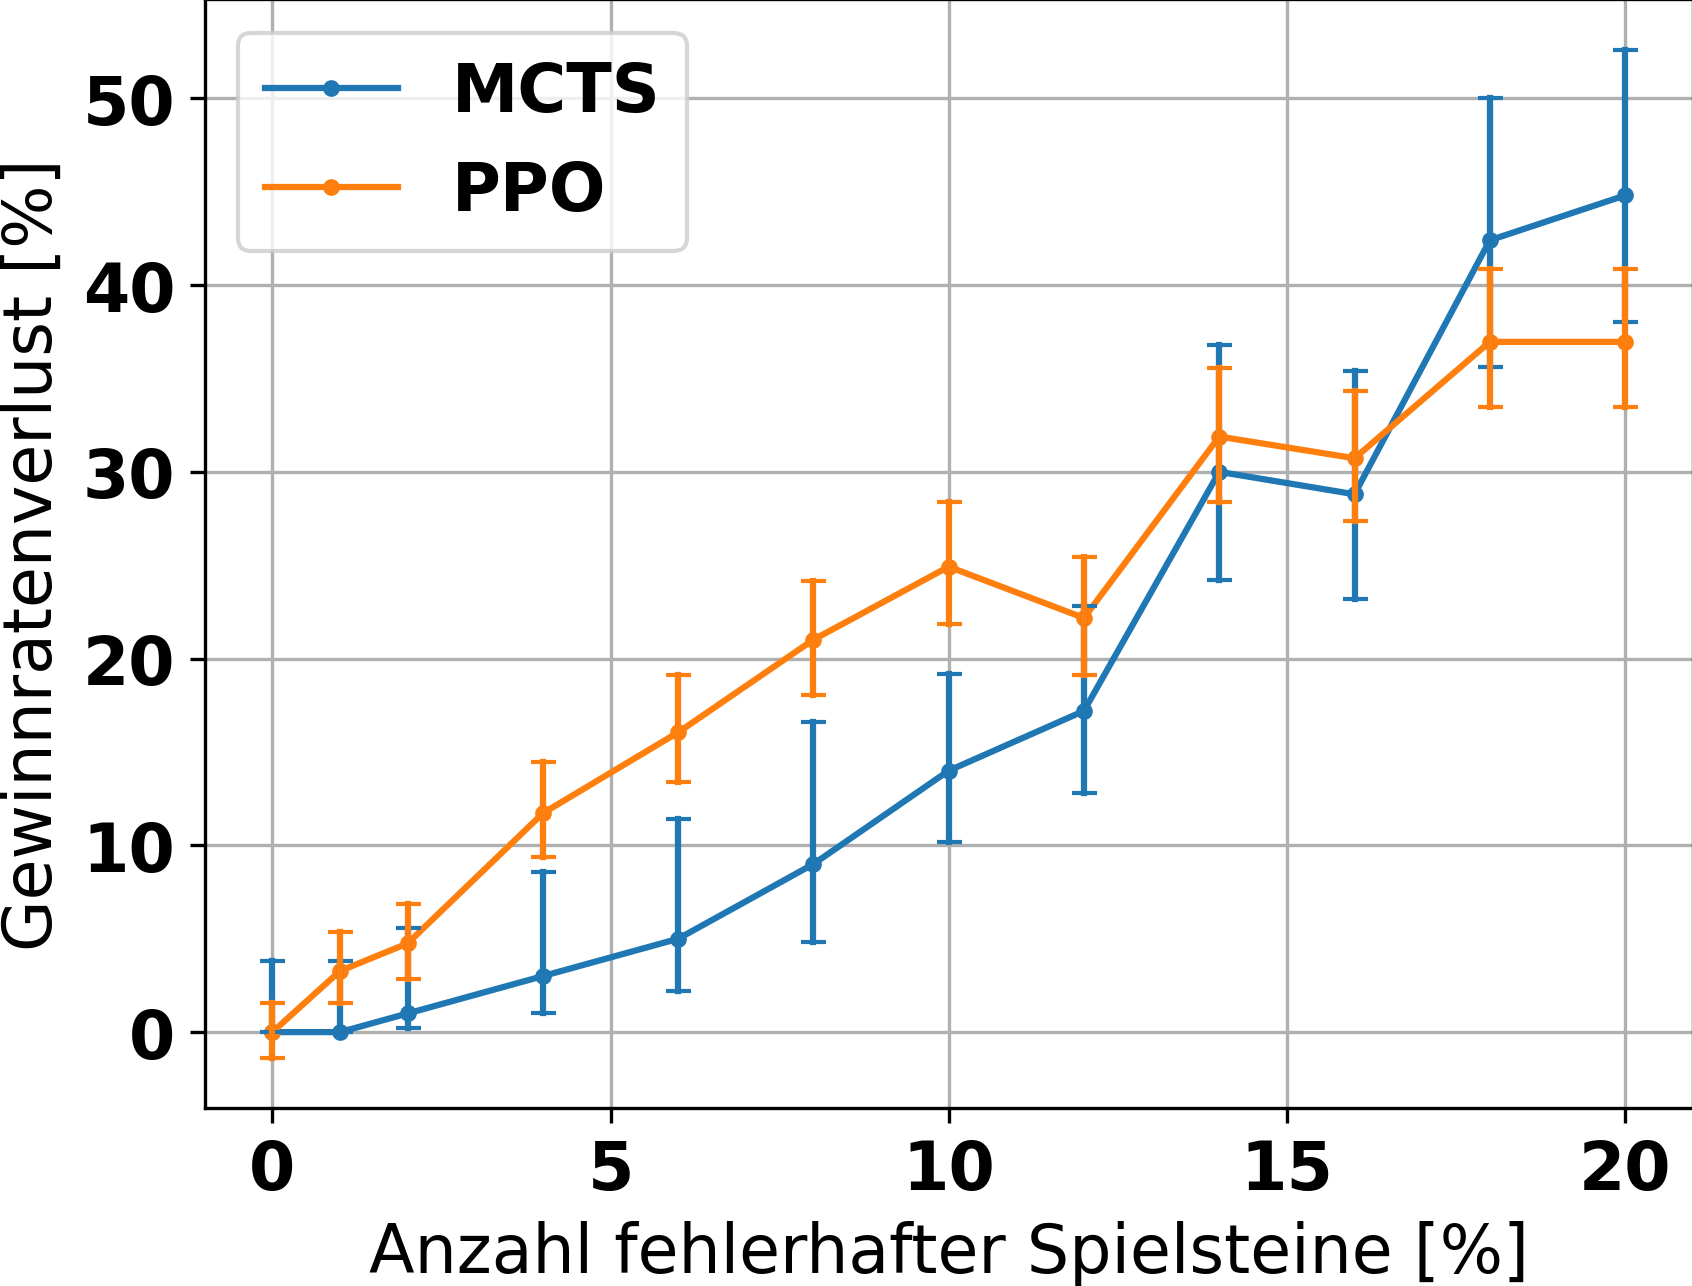
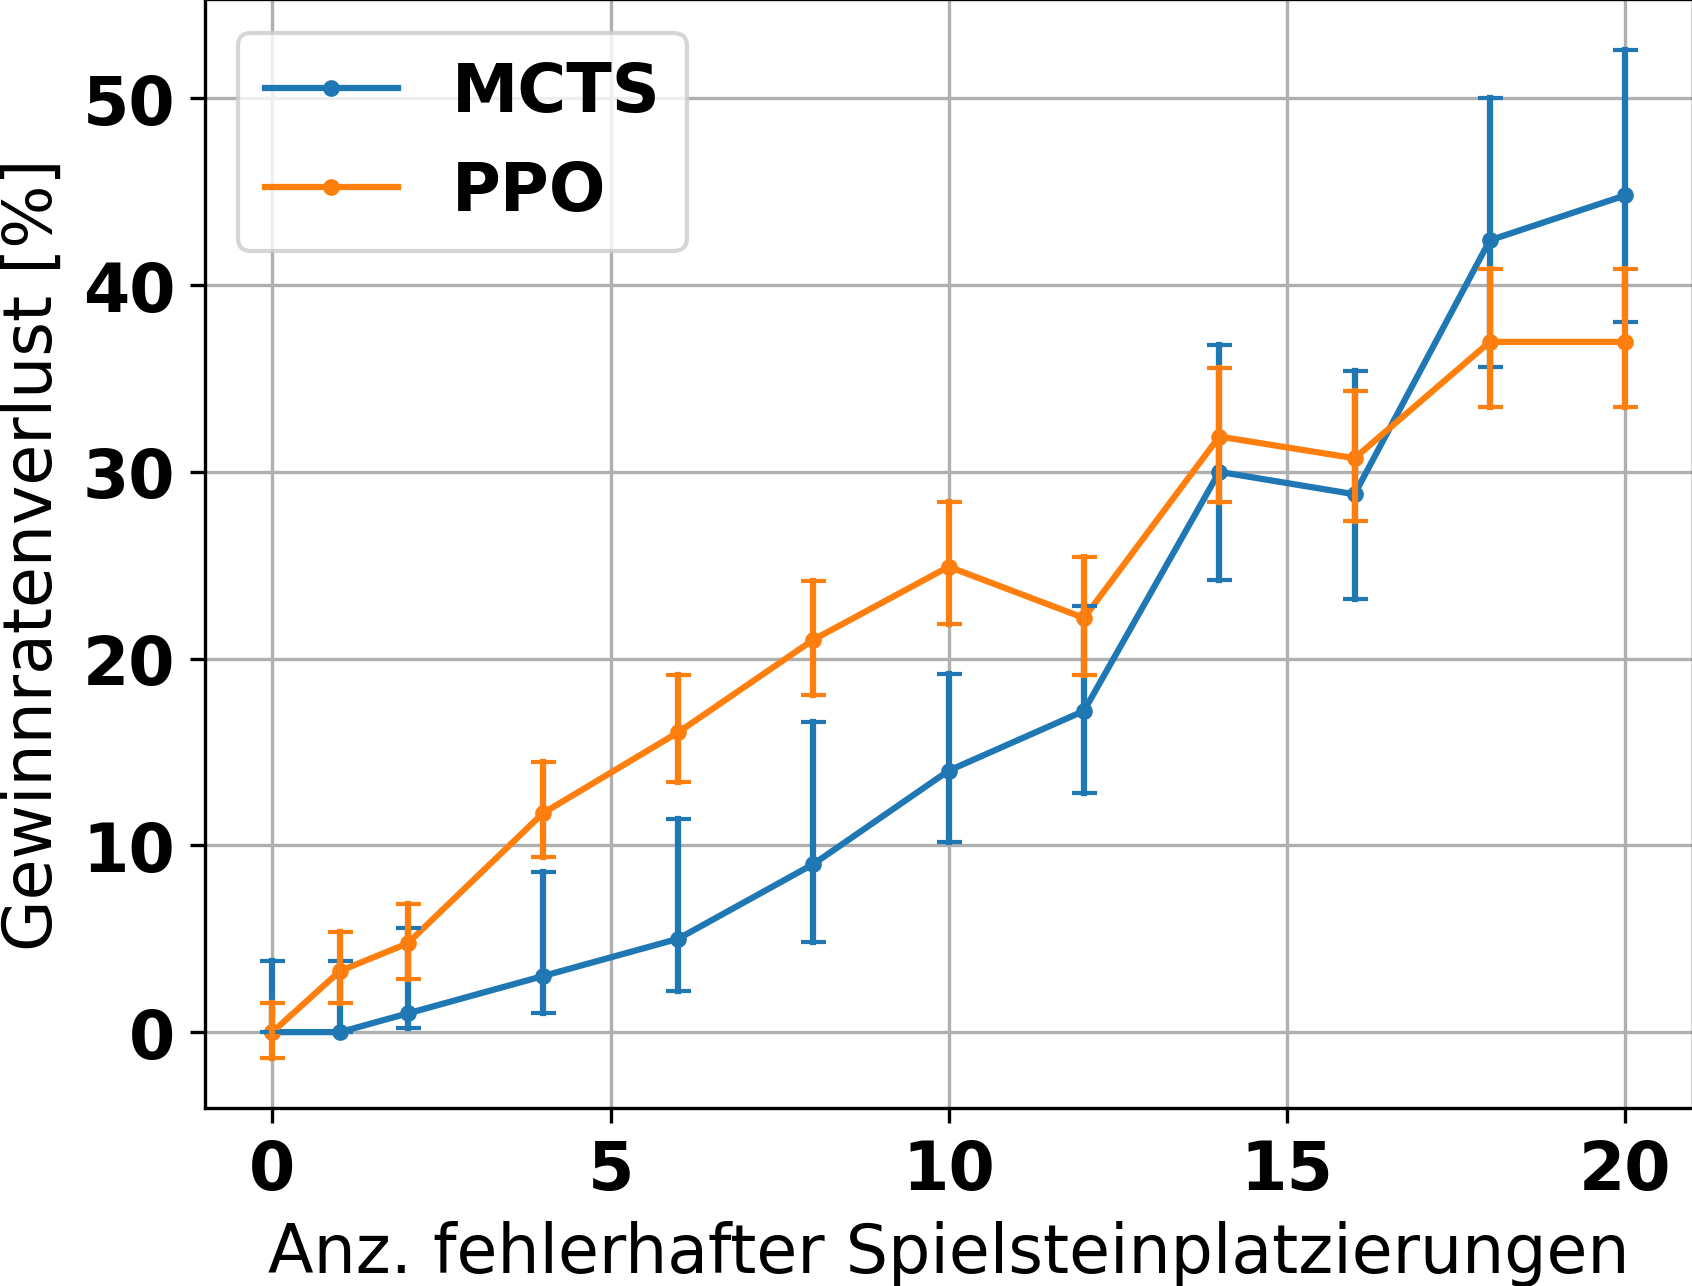
Update labels of graphs

Changed region(s): [[0.1537, 0.9331, 0.7991, 1.0], [0.8298, 0.9331, 0.9835, 1.0]]

diff --git a/realization/connect_four_robustness/results/uncertain_conditions/evaluate_performance_under_uncertain_conditions.py b/realization/connect_four_robustness/results/uncertain_conditions/evaluate_performance_under_uncertain_conditions.py
@@ -131,7 +131,7 @@ for uncertainty_level in uncertainty_levels:
 
 generate_and_save_figure(
 	uncertainty_levels,
-	"Anzahl fehlerhafter Spielsteine",
+	"Anz. fehlerhafter Spielsteinplatzierungen",
 	"Gewinnrate [%]",
 	mcts_win_rates,
 	mcts_win_rates_cis,
@@ -142,7 +142,7 @@ generate_and_save_figure(
 
 generate_and_save_figure(
 	uncertainty_levels,
-	"Anzahl fehlerhafter Spielsteine [%]",
+	"Anz. fehlerhafter Spielsteinplatzierungen",
 "Gewinnratenverlust [%]",
 	mcts_win_rate_losses,
 	mcts_win_rate_losses_cis,
